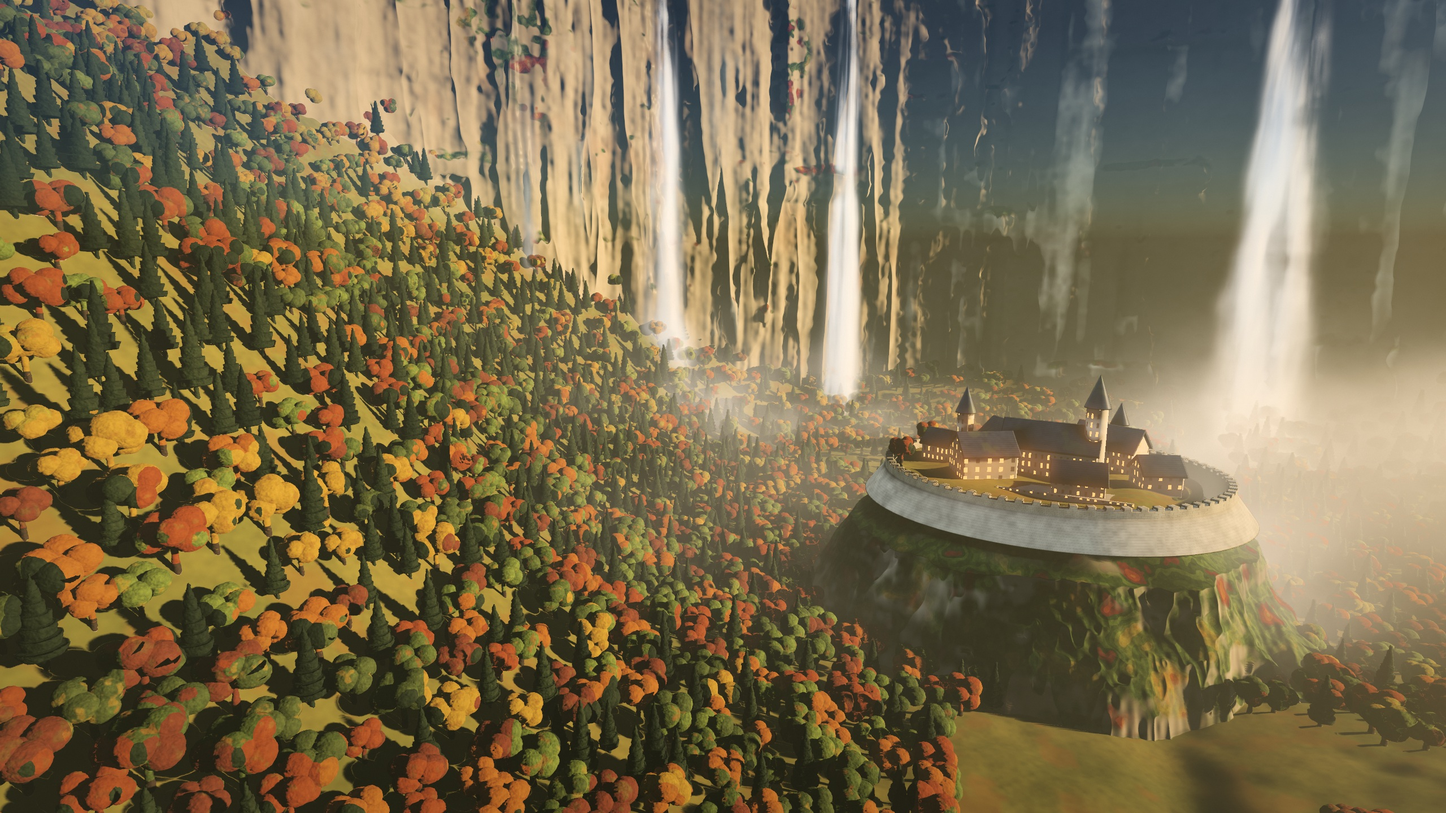
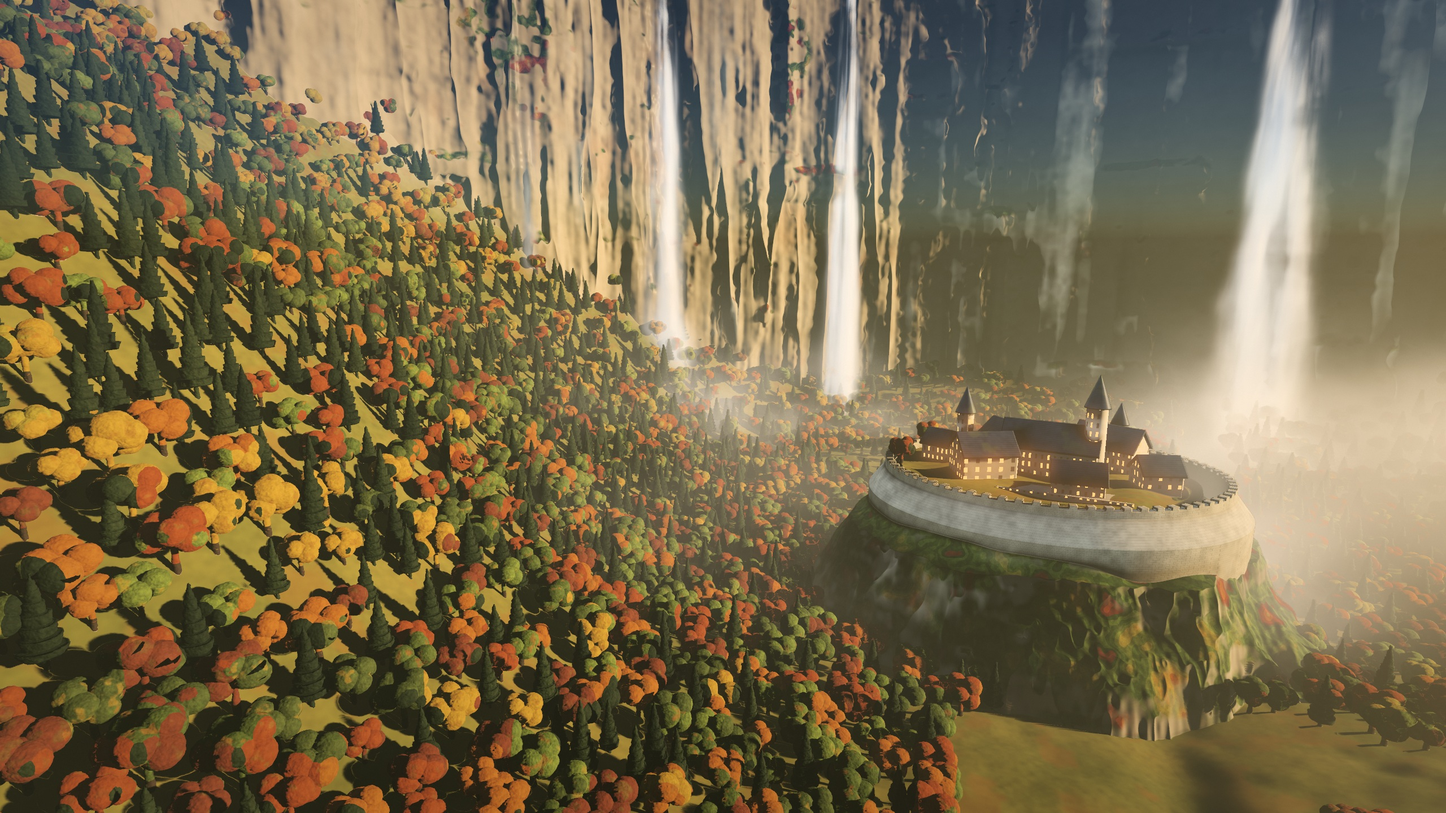
Légendes background: the rampart's foot follows the ground down to the rock (on the right it hung over the void); the glacis' flare capped

Changed region(s): [[0.6562, 0.6562, 0.875, 0.7188], [0.5938, 0.5938, 0.6562, 0.6562]]

diff --git a/app/tools/sprites/legend_scene.py b/app/tools/sprites/legend_scene.py
@@ -453,11 +453,13 @@ def rampart(p):
     # 3 m thick at the top, its outer face flaring out lower down (a glacis of stone down
     # into the crag: the crag's bushes and the ground's lumps no longer show on the wall)
     inner = (0.762 - re) * SPUR[2] - 1.5
-    outer = (re - 0.762) * SPUR[2] - 1.5 - 0.75 * (top - 3 - y).clamp_min(0)
+    outer = (re - 0.762) * SPUR[2] - 1.5 - 0.75 * (top - 3 - y).clamp(0, 10)
     band = torch.maximum(inner, outer)
     ang = torch.atan2(z * 1.2, x)
     merlon = ((torch.sin(ang * 70) > 0.1).float()) * 1.3
-    d = torch.maximum(band, torch.maximum(y - (top + merlon), top - 15 - y))
+    # the wall's foot goes down to the ground wherever it is (on the right the crag falls away)
+    foot = ground_h(p[:, 0], p[:, 2]) - 3.0
+    d = torch.maximum(band, torch.maximum(y - (top + merlon), foot - y))
     # the terrace's arcades replace the wall in front of it
     tx, tz = _rot(x - 2, z - 34, 0.2)
     gap = torch.maximum(tx.abs() - 27, tz.abs() - 9)
